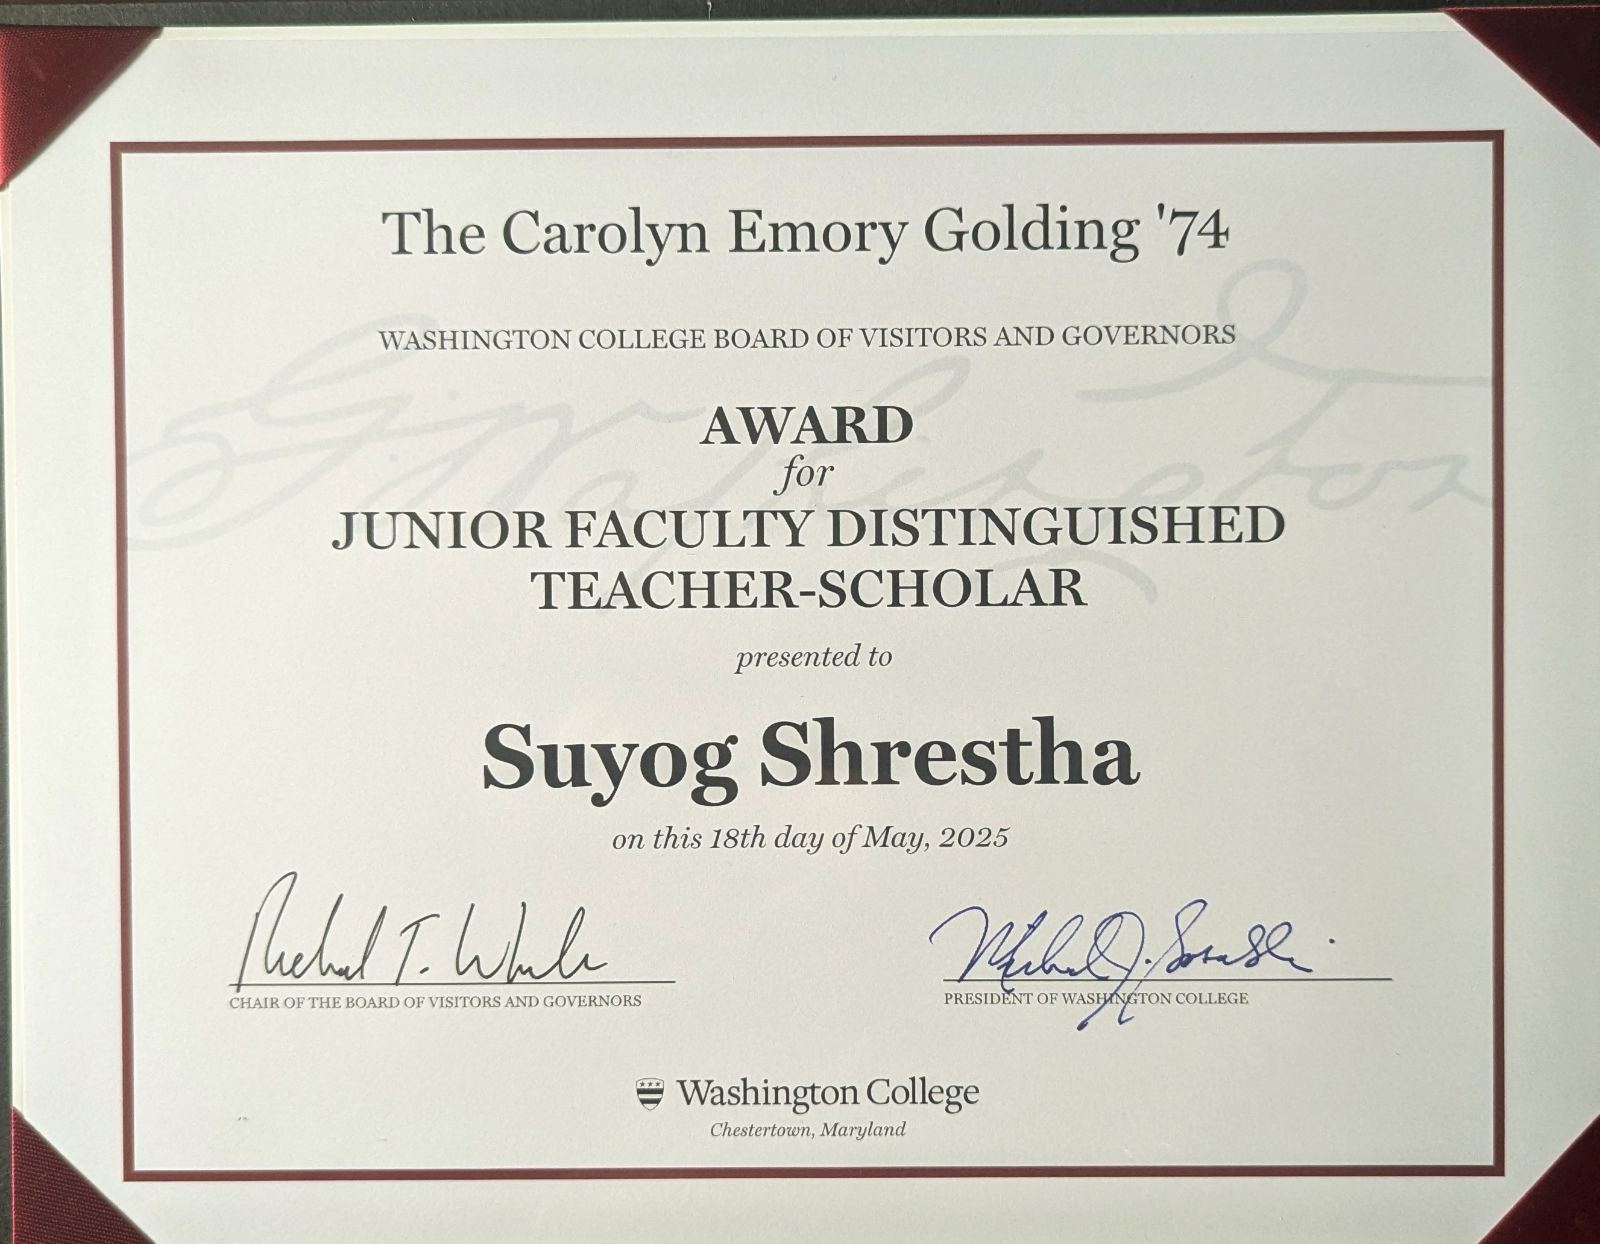
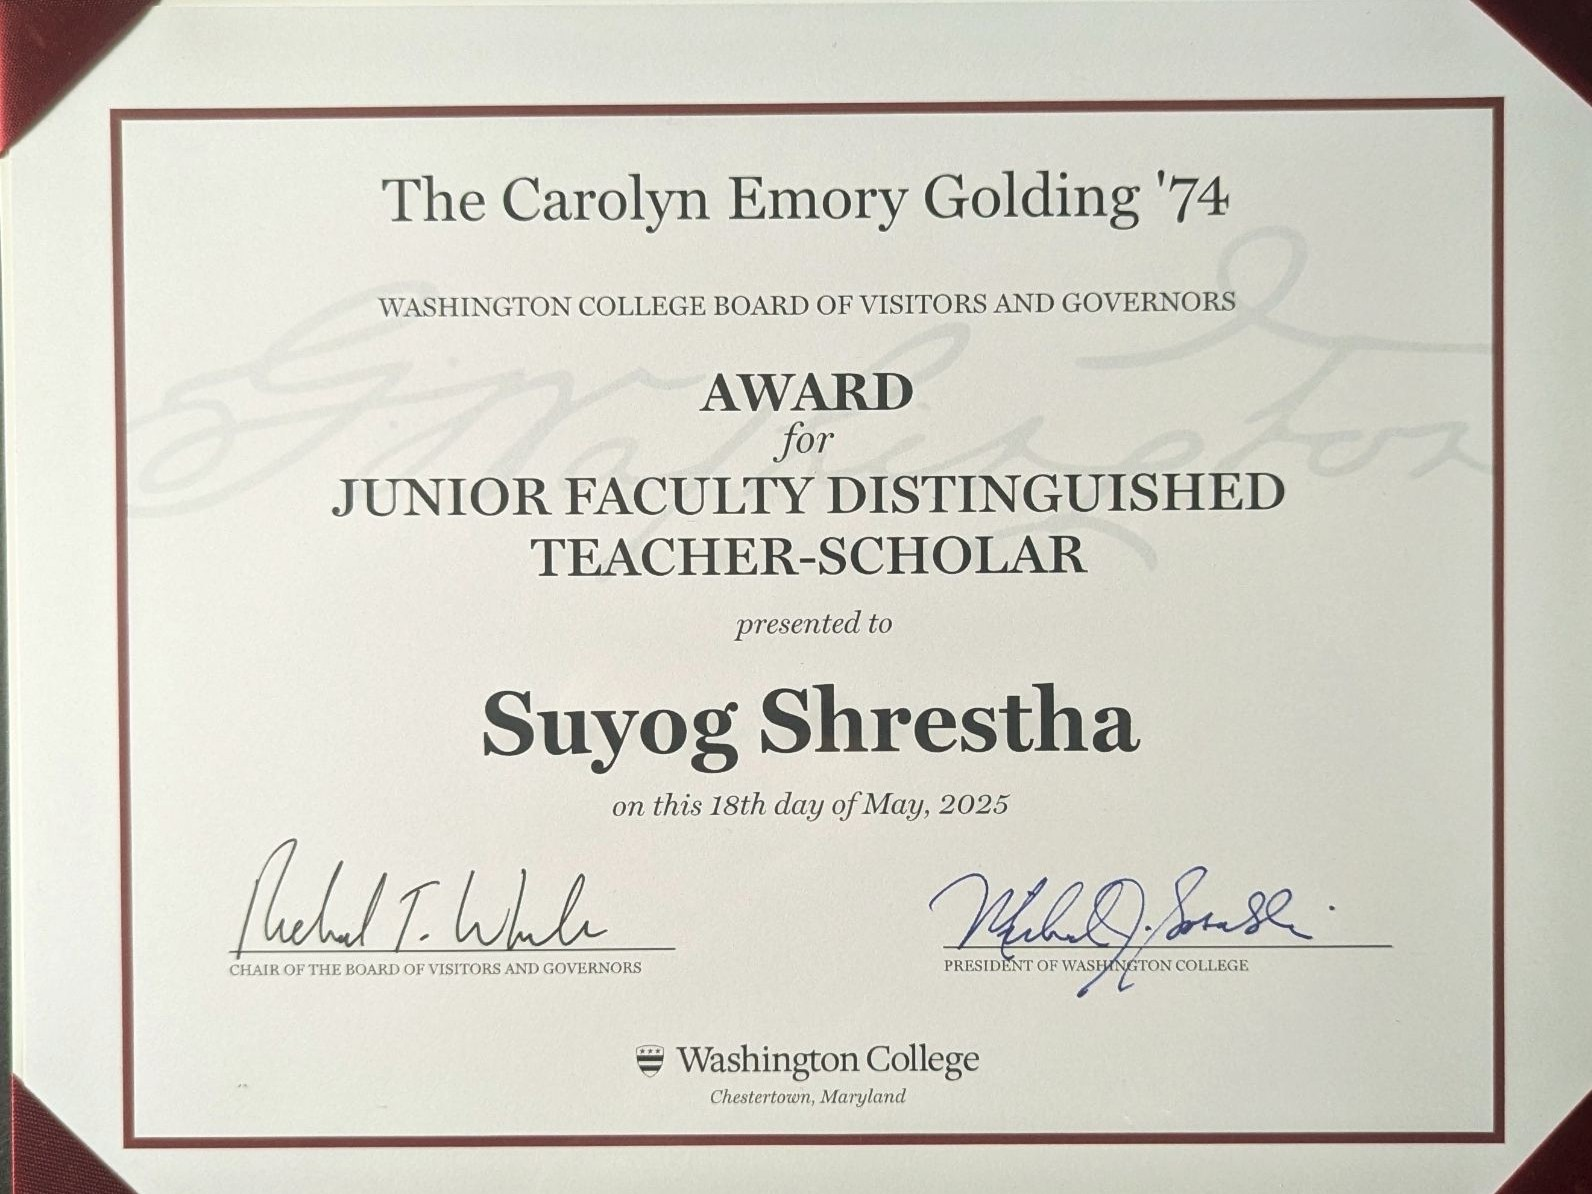
Removes one more section.

diff --git a/index.html b/index.html
@@ -57,7 +57,7 @@
             </div>
         </header>
         <!-- About-->
-        <section class="page-section pt-5" id="about">
+         class="page-section pt-5" id="about">
             <div class="container h-100">
                 <div class="row align-items-center justify-content-center text-center">
                     <div class="col-lg-10 align-self-end">
@@ -289,7 +289,7 @@
                 </div>
                 </div>
             </div>
-        </section>
+        
 
         <!-- Footer-->
         <footer class="bg-dark py-4 mt-0">
